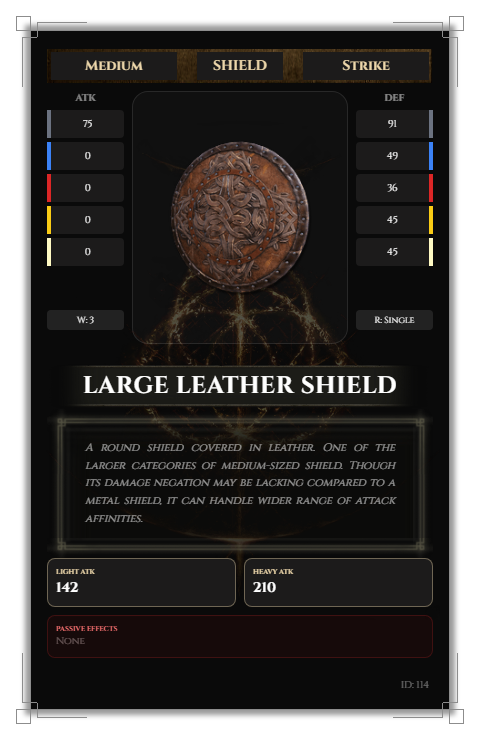
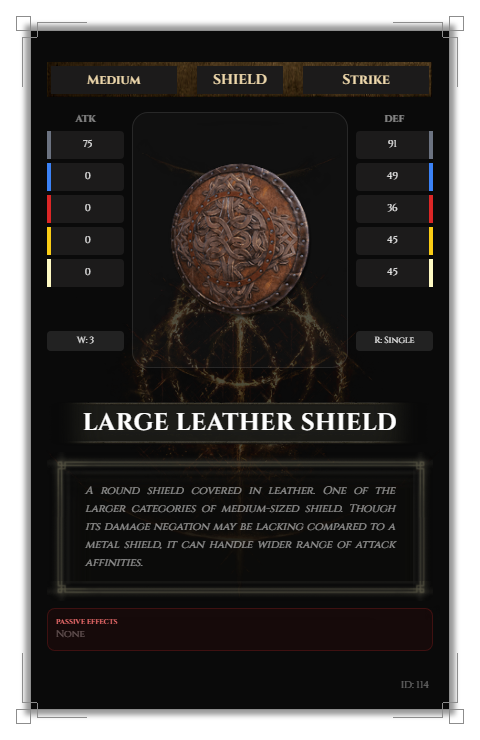
Remove atk from cards. 318

diff --git a/static/js/cards.js b/static/js/cards.js
@@ -101,7 +101,7 @@ class Card {
         
                     <!-- HEADER: Category a SX, AtkType a DX -->
                     <div class="mb-2 px-1 topprpr" style="display: grid;grid-template-columns: 1fr auto 1fr;align-items: center;width: 100%; grid-gap: 20px;">
-                        <div class="bg-[#1c1b1b] px-4 py-1 text-[#edd7ab] font-bold text-sm w-30" style="text-align:center;">
+                        <div class="bg-[#1c1b1b] px-2 py-1 text-[#edd7ab] font-bold text-sm w-30" style="text-align:center;font-size: clamp(7px, 13px, 20px);inline-size: 100%;overflow-wrap: break-word;white-space: nowrap;overflow: hidden;">
                             ${this.data.category || '-'}
                         </div>
                         <div class="bg-[#1c1b1b] px-4 py-1 text-[#edd7ab] font-bold text-sm" style="text-align: center;">
@@ -165,18 +165,6 @@ class Card {
                         <div class="bl"></div>
                         <div class="bottom"></div>
                         <div class="br"></div>
-                    </div>
-
-                    <!-- Attacchi (Mostra Danno) -->
-                    <div class="flex gap-2 mb-2">
-                        <div class="flex-1 border border-[#edd7ab]/40 rounded-lg p-2 bg-[#1c1b1b]">
-                            <div class="text-[7px] text-[#edd7ab] font-bold uppercase">Light Atk</div>
-                            <div class="text-sm font-bold text-white">${this.data.attacks?.lightDmg || '0'}</div>
-                        </div>
-                        <div class="flex-1 border border-[#edd7ab]/40 rounded-lg p-2 bg-[#1c1b1b]">
-                            <div class="text-[7px] text-[#edd7ab] font-bold uppercase">Heavy Atk</div>
-                            <div class="text-sm font-bold text-white">${this.data.attacks?.heavyDmg || '0'}</div>
-                        </div>
                     </div>
 
                     <!-- Passive Effects (Rettangolo Rosso) -->
